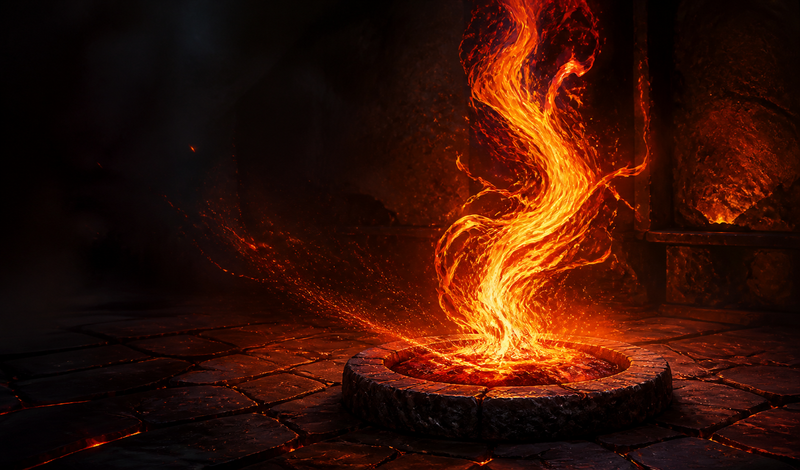
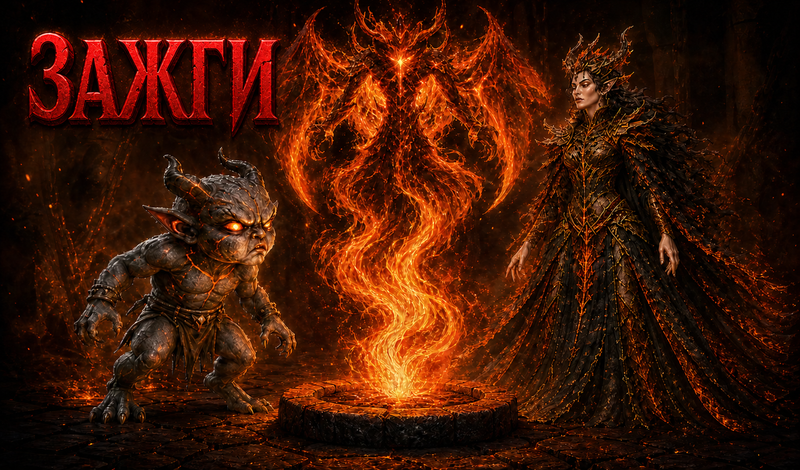
feat: add red localized Yandex release media

diff --git a/games/inferno-clicker/visual-references/yandex-release-09/cover-catalog-preview.html b/games/inferno-clicker/visual-references/yandex-release-09/cover-catalog-preview.html
@@ -1,0 +1,77 @@
+<!doctype html>
+<html lang="ru">
+<head>
+  <meta charset="utf-8">
+  <meta name="viewport" content="width=device-width,initial-scale=1">
+  <title>Зажги — сравнение обложек</title>
+  <style>
+    :root { color-scheme: dark; font-family: Inter, Arial, sans-serif; }
+    * { box-sizing: border-box; }
+    body {
+      margin: 0;
+      min-height: 100vh;
+      background: radial-gradient(circle at 50% 0%, #34201c, #100d0d 52%, #090808);
+      color: #fff7ee;
+      display: grid;
+      place-items: center;
+      padding: 44px;
+    }
+    main { width: min(1320px, 100%); }
+    h1 { margin: 0 0 10px; font-size: 34px; }
+    .lead { margin: 0 0 30px; color: #c9beb7; font-size: 18px; }
+    .grid { display: grid; grid-template-columns: 1fr 1fr; gap: 28px; }
+    .column > h2 { margin: 0 0 12px; color: #ffb164; font-size: 15px; letter-spacing: .12em; }
+    .card {
+      overflow: hidden;
+      border: 1px solid #4f3930;
+      border-radius: 22px;
+      background: #211d1c;
+      box-shadow: 0 22px 60px #0009;
+    }
+    .cover {
+      display: block;
+      width: 100%;
+      aspect-ratio: 800 / 470;
+      object-fit: cover;
+      background: #080606;
+    }
+    .meta { padding: 18px 20px 20px; }
+    .title-row { display: flex; align-items: center; gap: 12px; }
+    .title { font-size: 25px; font-weight: 750; }
+    .age { color: #ffb45e; border: 1px solid #8d6235; border-radius: 7px; padding: 2px 6px; font-size: 13px; }
+    .cats { margin-top: 9px; color: #b8afaa; font-size: 15px; }
+    .note { margin-top: 13px; color: #d8c8bc; line-height: 1.45; }
+    .good { color: #ffd29a; }
+  </style>
+</head>
+<body>
+  <main>
+    <h1>Как обложка выглядит в каталожной карточке</h1>
+    <p class="lead">Название, рейтинг и категории выводятся интерфейсом отдельно от изображения.</p>
+    <div class="grid">
+      <section class="column">
+        <h2>ТЕКУЩАЯ</h2>
+        <article class="card">
+          <img class="cover" src="../../releases/yandex-submission-1.0.0/media/cover-800x470.png" alt="Текущая обложка">
+          <div class="meta">
+            <div class="title-row"><span class="title">Зажги</span><span class="age">12+</span></div>
+            <div class="cats">Аркады · Казуальные</div>
+            <div class="note">Красивый огонь, но карточка не показывает главных персонажей игры.</div>
+          </div>
+        </article>
+      </section>
+      <section class="column">
+        <h2>ВАРИАНТ С ПЕРСОНАЖАМИ</h2>
+        <article class="card">
+          <img class="cover" src="cover-characters-no-title-v2-preview.png" alt="Новая обложка с персонажами">
+          <div class="meta">
+            <div class="title-row"><span class="title">Зажги</span><span class="age">12+</span></div>
+            <div class="cats">Аркады · Казуальные</div>
+            <div class="note good">Название читается отдельно; внутри арта остаются крупные персонажи и центральное пламя.</div>
+          </div>
+        </article>
+      </section>
+    </div>
+  </main>
+</body>
+</html>

diff --git a/games/inferno-clicker/releases/yandex-submission-1.0.0/asset-manifest.md b/games/inferno-clicker/releases/yandex-submission-1.0.0/asset-manifest.md
@@ -1,11 +1,22 @@
 # Submission media manifest
 
-Icon/cover must be original card artwork, not gameplay screenshots. Shared RU/EN media contains no overlaid words, so one set is used for both languages. System/browser/Yandex UI and debug panel must not appear. Final files require SHA-256 and independent visual sign-off.
+Icon/cover are localized original card artwork, not gameplay screenshots. The
+only lettering is the matching game title: `ЗАЖГИ` for RU and `IGNITE` for EN.
+The accepted v3 title fill is deep ember red, not the superseded gold/orange
+metallic treatment.
+Generic `icon-512.png` and `cover-800x470.png` are exact byte-for-byte RU
+aliases available if the Console exposes only one shared file. System/browser/
+Yandex UI and debug panels must not appear. `PASS` below records local file and
+visual review only; Console upload remains `NOT RUN` in `console-checklist.md`.
 
 | ID | Required filename | Pixels/format | Intended content | Status | SHA-256 |
 |---|---|---|---|---|---|
[11 lines of base64/hex data omitted]
@@ -16,6 +27,15 @@ Icon/cover must be original card artwork, not gameplay screenshots. Shared RU/EN
[1 lines of base64/hex data omitted]
 
 For every screenshot: game content area≥70%, black field only if part of actual game composition, no crop/distortion, no broken/white spots, no prohibited symbols, no platform/system/debug overlay. Long side is within the documented 1280–2560 range. Maskable icon, showcase cover and promo video are `N/A — optional and not required for Cycle 09`.
+
+## Localized card-art provenance
+
+| Delivery variants | Versioned ImageGen source | Source dimensions/bytes | Source SHA-256 | Prompt intent |
+|---|---|---|---|---|
[4 lines of base64/hex data omitted]
 
 Machine-readable dimensions, byte sizes and hashes are in
 `media/submission-media-manifest.json`. Icon and cover sources are retained in

diff --git a/games/inferno-clicker/assets/PROVENANCE.md b/games/inferno-clicker/assets/PROVENANCE.md
@@ -39,30 +39,51 @@ Runtime PNG/WebP are deterministic encodes generated by
 rollback/provenance and are not referenced by the Yandex production bundle.
 No character, text, letter, watermark or symbolic glyph was requested or added.
 
-Submission icon and cover are original OpenAI ImageGen outputs made for this
-project on 2026-08-23; they contain no third-party logo, character, text or
-reference image. Icon prompt intent: square store icon with one centered natural
-flame and basalt, strong small-size silhouette, no text, characters, glyphs,
-religious, ritual or esoteric symbols. Original output
-`C:/Users/User/.codex/generated_images/01a02e31-ac4a-7761-b6dc-f61a9bf9704c/exec-08935b8c-91da-4f1e-bdd8-741c9261401d.png`
-is tracked as
-`visual-references/yandex-release-09/submission-icon-source.png` (1,755,176 B,
[1 lines of base64/hex data omitted]
-the deterministic 512×512 delivery crop is
-`releases/yandex-submission-1.0.0/media/icon-512.png` (393,749 B, SHA-256
[1 lines of base64/hex data omitted]
-Cover prompt intent: wide game-store cover with an original central natural
-flame and irregular basalt progression, no text, UI, characters, glyphs or
-religious/ritual/esoteric symbols. Original output
-`C:/Users/User/.codex/generated_images/01a02e31-ac4a-7761-b6dc-f61a9bf9704c/exec-df20541f-0dcb-48ab-a24d-786b04507933.png`
-is tracked as
-`visual-references/yandex-release-09/submission-cover-source.png` (2,056,608 B,
[1 lines of base64/hex data omitted]
-the deterministic 800×470 delivery crop is
-`releases/yandex-submission-1.0.0/media/cover-800x470.png` (680,427 B, SHA-256
[1 lines of base64/hex data omitted]
-These are first-party generated media for the release submission; no external
-stock or third-party IP is incorporated.
+The Cycle 09 submission icon and cover use the red-title v3 iteration produced
+on 2026-08-25 as four localized OpenAI ImageGen outputs made for this project. They contain the
+original dark-fantasy fire cast and the localized game title as their only
+lettering; no third-party logo, stock asset, platform UI, watermark, religious,
+ritual or esoteric symbol was requested or incorporated.
+
+Cover prompt intent: a rich wide Yandex Games card with the Ash Servant on the
+left, the central Inferno fire form and the Ember Warden on the right, composed
+around the readable localized title `ЗАЖГИ` / `IGNITE`. The title fill is a
+deliberate deep ember red, not the gold/orange metallic fill from the superseded
+v2 iteration. No gameplay UI or platform chrome was requested. Accepted sources:
+
+- `visual-references/yandex-release-09/submission-cover-characters-title-red-v3-ru-source.png`
+  — 1635×962, 2,605,271 B, SHA-256
[1 lines of base64/hex data omitted]
+- `visual-references/yandex-release-09/submission-cover-characters-title-red-v3-en-source.png`
+  — 1634×963, 2,608,901 B, SHA-256
[1 lines of base64/hex data omitted]
+
+Their 800×470 delivery exports are
+`releases/yandex-submission-1.0.0/media/cover-800x470-ru.png` (828,367 B,
[1 lines of base64/hex data omitted]
+and `releases/yandex-submission-1.0.0/media/cover-800x470-en.png` (825,592 B,
[1 lines of base64/hex data omitted]
+The generic `media/cover-800x470.png` is an exact byte-for-byte RU alias.
+
+Icon prompt intent: a rich square small-size store mark using the same three
+characters and central flame, tightly framed beneath the readable localized
+title `ЗАЖГИ` / `IGNITE`. The title fill is deep ember red rather than gold,
+with no UI, platform mark or unrelated glyph.
+Accepted sources:
+
+- `visual-references/yandex-release-09/submission-icon-rich-title-red-v3-ru-source.png`
+  — 1254×1254, 2,650,716 B, SHA-256
[1 lines of base64/hex data omitted]
+- `visual-references/yandex-release-09/submission-icon-rich-title-red-v3-en-source.png`
+  — 1254×1254, 2,510,258 B, SHA-256
[1 lines of base64/hex data omitted]
+
+Their 512×512 delivery exports are
+`releases/yandex-submission-1.0.0/media/icon-512-ru.png` (568,165 B, SHA-256
[1 lines of base64/hex data omitted]
+and `releases/yandex-submission-1.0.0/media/icon-512-en.png` (542,576 B,
[1 lines of base64/hex data omitted]
+The generic `media/icon-512.png` is an exact byte-for-byte RU alias.
 
 Ash Servant v7 and Ember Warden v8 are deterministic clean exports of the
 approved Cycle 08 authored frames, not generative redraws. The Cycle 09 builder

diff --git a/games/inferno-clicker/releases/yandex-submission-1.0.0/console-checklist.md b/games/inferno-clicker/releases/yandex-submission-1.0.0/console-checklist.md
@@ -2,11 +2,16 @@
 
 Every row starts `NOT RUN`; mark PASS only with a console screenshot/export tied to the draft ID.
 
-Environment check on 2026-08-23: `BLOCKED — https://games.yandex.ru/console/ redirected the available in-app browser to Yandex ID authorization; connected Chrome control was unavailable. No credentials were requested or entered, no draft was created, and no archive was uploaded.` This is the explicit external blocker defined by the Cycle 09 contract; it does not authorize renaming, moderation, or publication.
+Historical environment check on 2026-08-23: the available browser redirected to
+Yandex ID authorization, so no Console work was completed in that session. The
+active Console workflow now targets draft `574315`; every Console-side status
+below remains `NOT RUN` until the main agent records screenshot/export evidence.
+In particular, the newly prepared localized card media is not claimed as
+uploaded by this checklist. Nothing here authorizes moderation or publication.
 
 | Field | Exact value | Status |
 |---|---|---|
-| Draft | Create a new game draft; do not reuse a different published game | NOT RUN |
+| Draft | Verify existing blank draft `574315`; do not reuse a different published game | NOT RUN |
 | RU title | `Зажги` | NOT RUN |
 | EN title | `Ignite` | NOT RUN |
 | Title uniqueness | Confirm both localized titles are available in the catalog; conflict is an external blocker and does not authorize renaming | NOT RUN |
@@ -24,8 +29,11 @@ Environment check on 2026-08-23: `BLOCKED — https://games.yandex.ru/console/ r
 | Allowed hosts | Only hosts actually required by Yandex SDK/game package; no third-party ad or analytics host | NOT RUN |
 | RU copy | Paste exactly from `metadata-ru.md` | NOT RUN |
 | EN copy | Paste exactly from `metadata-en.md` | NOT RUN |
-| Icon | `icon-512.png` | NOT RUN |
-| Cover | `cover-800x470.png` | NOT RUN |
[4 lines of base64/hex data omitted]
+| Shared card-media fallback | If the Console exposes only one shared icon/cover field, use `icon-512.png` and `cover-800x470.png`; both are exact RU aliases. Record the field limitation before upload rather than claiming EN-localized media was applied. | NOT RUN |
 | Screenshots | `desktop-01..04-1920x1080.png`, `mobile-01..04-1080x1920.png` | NOT RUN |
 | Countries | Platform default distribution appropriate for RU+EN; no extra exclusion requested | NOT RUN |
 | Moderation submit | N/A — separate user authorization required | N/A — outside Cycle 09 |
@@ -41,5 +49,7 @@ Environment check on 2026-08-23: `BLOCKED — https://games.yandex.ru/console/ r
 - Authorized cloud merge/rate limit/reload and guest local-only flow: `NOT RUN`.
 - `best-score` improved/lower/duplicate/unavailable paths: `NOT RUN`.
 - Exact uploaded ZIP SHA equals tested and promoted artifact: `NOT RUN`.
+- Exact uploaded card-media hashes match the four localized rows above, or the
+  shared-field fallback and its Console limitation are evidenced: `NOT RUN`.
 
 После сбора скриншотов/видео/логов оформить `yandex-console-draft` JSON по контракту `scripts/verify-yandex-draft.mjs`: exact RC bytes/build/package SHA, оба названия и `availabilityChecked/available=true`, структурированные rewarded success/close/error + 60/90 active-time/pause/audio, нулевые console/network counters и десять hash-bound artifacts. Затем выполнить `npm run verify:draft:yandex -- --evidence=<console-evidence.json>`. Команда append-only проверяет черновик без rebuild, rename, модерации или публикации.
